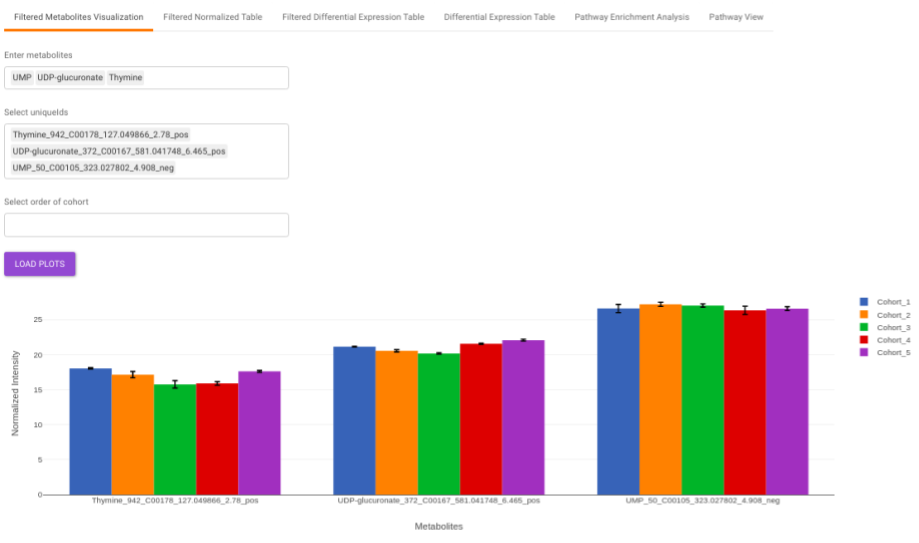
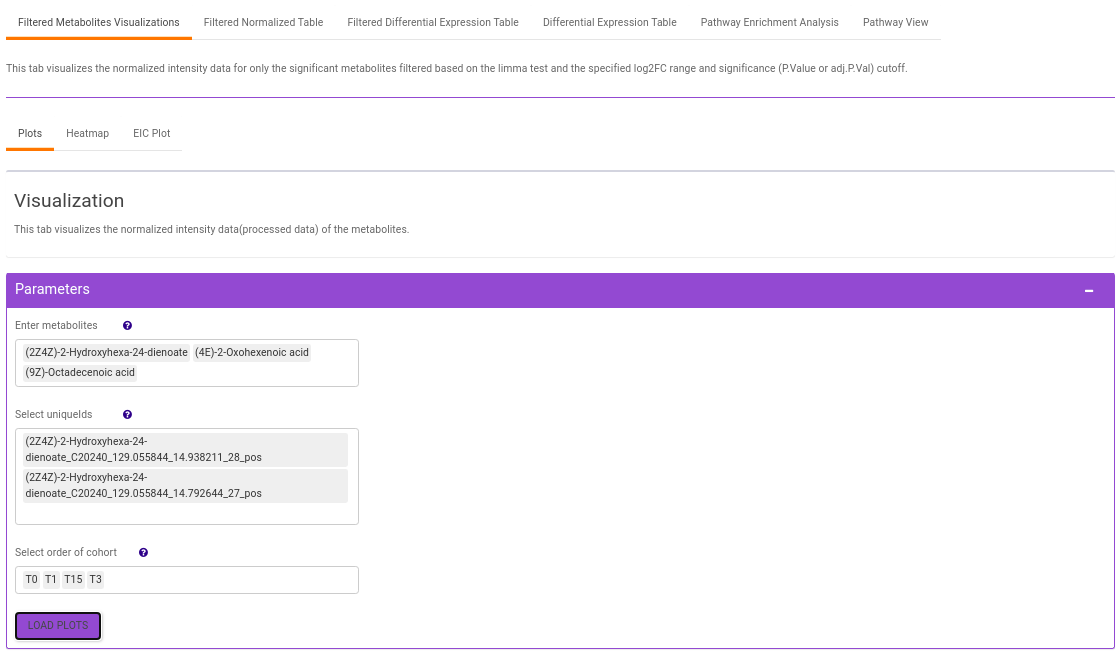
updated for feature additions

diff --git a/docs/Apps/Metabolomic Data/Untargeted Pipeline.md b/docs/Apps/Metabolomic Data/Untargeted Pipeline.md
@@ -19,7 +19,7 @@ Untargeted Pipeline can take a csv file are well as a emdb file as input.
 
 **Emdb File**
 
-The emdb file used here is a RSQLite database file generated when an El-MAVEN session is saved. It has all the unannotated features along with other features of the peaks. 
+The emdb file used here is a RSQLite database file generated when an El-MAVEN session is saved. It has all the unannotated features along with other features of the peaks. An emdb file can have multiple feature tables, and the user can select the feature table to use in the downsteam pipeline thhrough the dropdown.
 
 **Intensity File**
 
@@ -336,6 +336,10 @@ This allows you to understand the clustering pattern between biologically groupe
 
 ##Statistical Analysis
 
+This tab allows you to perform various statistical analysis test on the data, namely limma test and anova test to identify significant and important features from the data.
+
+**Limma Test**
+
 This interface allows you to perform differential expression limma analysis with the aim to identify metabolites whose expression differs between any specified cohort conditions. The 'limma' R package is used to identify the differentially expressed metabolites. This method creates a log<sub>2</sub> fold change ratio between the two experimental conditions and an 'adjusted' *p*-value that rates the significance of the difference.
 
 ![Statistical Analysis interface](../../img/UntargetedPipeline/utp_app_stats_analysis_page.png) <center>**Figure 46.** Statistical Analysis interface</center>
@@ -360,66 +364,108 @@ Once the parameters are specified, click on the *Update* button to plot the volc
 
 ![Volcano plot](../../img/UntargetedPipeline/utp_app_volcano_plot.png) <center>**Figure 48.** Volcano plot</center>
 
-*Filtered Metabolites Visualization* provides the visualization of cohort-based distribution of the metabolites that are significant based on the parameters specified.
+*Filtered Metabolites Visualization* provides the option to visualize the cohort-based distribution of the features/metabolites that are significant based on the parameters specified through bar plots and boxplots and also look at the EIC plot of specific features to update categorization of the feateure by the peakML algorithm.
 
 ![Filtered Metabolites Visualization](../../img/UntargetedPipeline/utp_app_stats_analysis_filtered_metabolites_visualization.png) <center>**Figure 49.** Filtered Metabolites Visualization</center>
 
+*   Plots: This tab allows the user to visualize the cohort-based distribution of the features/metabolites through barplots and boxplots.
+![Filtered Metabolites Plots](../../img/UntargetedPipeline/utp_app_stats_analysis_filtered_metabolites_barplot_boxplot_visualization.png) <center>**Figure 50.** Barplot </center>
+*   Heatmap: This tab allows you to produce a heatmap of the filtered features/metabolite data, so that you can observe the level of expression in a visual form. Click on *Load Heatmap* button to generate the heatmap..
+![Heatmap of the significant features/metabolites data](../../img/UntargetedPipeline/utp_app_filtered_heatmap.png) <center>**Figure 51.** Heatmap</center>
+*   EIC Plot: This tab allows you to visualize the eic of specific features so that the user can relabel the classification of the feature done by the peakML algorithm. You can also download the updated emdb file after reaclassification from the Downloads tab.
+![EIC plot of significant features/metabolites](../../img/UntargetedPipeline/utp_app_filtered_eic_plot.png) <center>**Figure 52.** EIC Plot</center>
+![Relabel features/metabolites](../../img/UntargetedPipeline/utp_app_filtered_realabel.png) <center>**Figure 53.** EIC Plot</center>
+
 *Filtered Normalized Table* contains the normalized data of the metabolites that are significant based on the parameters specified.
 
-![Filtered Normalized Table](../../img/UntargetedPipeline/utp_app_stats_analysis_filtered_normalised_table.png) <center>**Figure 50.** Filtered Normalized Table</center>
+![Filtered Normalized Table](../../img/UntargetedPipeline/utp_app_stats_analysis_filtered_normalised_table.png) <center>**Figure 54.** Filtered Normalized Table</center>
 
 *Filtered Differential Expression Table* contains only the metabolites that have significant *p*-values as specified.
 
-![Filtered Differential Expression Table](../../img/UntargetedPipeline/utp_app_stats_analysis_filtered_diff_exp_table.png) <center>**Figure 51.** Filtered Differential Expression Table</center>
+![Filtered Differential Expression Table](../../img/UntargetedPipeline/utp_app_stats_analysis_filtered_diff_exp_table.png) <center>**Figure 55.** Filtered Differential Expression Table</center>
 
 *Differential Expression Table* contains all the differentially expressed metabolites without any filtering.
 
-![Differential Expression Table](../../img/UntargetedPipeline/utp_app_stats_analysis_diff_exp_table.png) <center>**Figure 52.** Differential Expression Table</center>
+![Differential Expression Table](../../img/UntargetedPipeline/utp_app_stats_analysis_diff_exp_table.png) <center>**Figure 56.** Differential Expression Table</center>
 
 *Pathway Enrichment Analysis* performs the pathway enrichment analysis for the significant metabolites based on the parameters specified for the particular cohort comparison. Click on the *Perform Pathway Analysis* button.
 As a result, you get Metabolite Set Enrichment Analysis and Pathway Topology Analysis plots that can be downloaded under the *Plot* panel. You can also obtain the tablular representation of the plots by selecting onto the *Table* panel.
 
-![Metabolite Set Enrichment Analysis Plot](../../img/UntargetedPipeline/utp_app_stats_analysis_msea_plot.png) <center>**Figure 53.** Metabolite Set Enrichment Analysis Plot</center>
+![Metabolite Set Enrichment Analysis Plot](../../img/UntargetedPipeline/utp_app_stats_analysis_msea_plot.png) <center>**Figure 57.** Metabolite Set Enrichment Analysis Plot</center>
 
-![Pathway Topology Analysis Plot](../../img/UntargetedPipeline/utp_app_stats_analysis_pathway_topology_plot.png) <center>**Figure 54.** Pathway Topology Analysis Plot</center>
+![Pathway Topology Analysis Plot](../../img/UntargetedPipeline/utp_app_stats_analysis_pathway_topology_plot.png) <center>**Figure 58.** Pathway Topology Analysis Plot</center>
 
-![Metabolite Set Enrichment Analysis Table](../../img/UntargetedPipeline/utp_app_stats_analysis_msea_table.png) <center>**Figure 55.** Metabolite Set Enrichment Analysis Table</center>
+![Metabolite Set Enrichment Analysis Table](../../img/UntargetedPipeline/utp_app_stats_analysis_msea_table.png) <center>**Figure 59.** Metabolite Set Enrichment Analysis Table</center>
 
-![Pathway Topology Analysis Table](../../img/UntargetedPipeline/utp_app_stats_analysis_topology_table.png) <center>**Figure 56.** Pathway Topology Analysis Table</center>
+![Pathway Topology Analysis Table](../../img/UntargetedPipeline/utp_app_stats_analysis_topology_table.png) <center>**Figure 60.** Pathway Topology Analysis Table</center>
 
 *Pathway View* plots the pathway view of the metabolites that show up in the Metabolite Set Enrichment Analysis. It maps and renders the metabolite hits on relevant pathway graphs. This enables you to visualize the significant metabolites on pathway graphs of the respective metabolites they belong to. You can select your metabolite of interest from the drop-down and click on *Plot*. This will plot the pathway view of the metabolism selected. You can also download the plot as a .png file by clicking onto the *Download Pathview Plot* button.
 
-![Pathway View Plot](../../img/UntargetedPipeline/utp_app_stats_analysis_pathview_plot.png) <center>**Figure 57.** Pathway View Plot</center>
+![Pathway View Plot](../../img/UntargetedPipeline/utp_app_stats_analysis_pathview_plot.png) <center>**Figure 61.** Pathway View Plot</center>
+
+**ANOVA Test**
+This interface allows you to compare the means of two or more groups using F-statistic under the assumption that samples population are normally distributed. One- way ANOVA allows determining whether one given factor has significant effect in mean values of any groups in the data.
+
+![ANOVA Test interface](../../img/UntargetedPipeline/utp_app_anova_page.png) <center>**Figure 62.** Statistical Analysis interface</center>
+
+The following parameters are available for selection:
+
+*   Select *Cohorts*: Select the cohorts you want to consider while performing the one way anova test.
+*   p-val: By default, the value is 0.05 but can be changed if required.
+*   F value: Specify the cut-off for f value with the help of the slider.
+
+Once the parameters are specified, click on the RUN ANOVA button to plot the barplots and boxplots. Based on the parameters specified, the generated tables are filtered.
+
+*Filtered Metabolites Visualization* provides the option to visualize the cohort-based distribution of the features/metabolites that are significant based on the parameters specified through bar plots and boxplots.
+
+![Filtered Metabolites Visualization](../../img/UntargetedPipeline/utp_app_stats_analysis_anova_filtered_metabolites_visualization.png) <center>**Figure 63.** Filtered Metabolites Visualization</center>
+
+*   Plots: This tab allows the user to visualize the cohort-based distribution of the features/metabolites through barplots and boxplots.
+![Filtered Metabolites Plots](../../img/UntargetedPipeline/utp_app_stats_analysis_filtered_metabolites_barplot_boxplot_visualization.png) <center>**Figure 64.** Filtering Interface</center>
+*   Heatmap: This tab allows you to produce a heatmap of the filtered features/metabolite data, so that you can observe the level of expression in a visual form. Click on *Load Heatmap* button to generate the heatmap..
+![Heatmap of the significant features/metabolites data](../../img/UntargetedPipeline/utp_app_filtered_heatmap.png) <center>**Figure 65.** Heatmap</center>
+
+*Filtered Normalized Table* contains the normalized data of the metabolites that are significant based on the parameters specified.
+
+![Filtered Normalized Table](../../img/UntargetedPipeline/utp_app_stats_analysis_anova_filtered_normalised_table.png) <center>**Figure 66.** Filtered Normalized Table</center>
+
+*Filtered Anova Table* contains only the metabolites that have significant *p*-values and F statisitic value as specified.
+
+![Filtered Anova Table](../../img/UntargetedPipeline/utp_app_stats_analysis_anova_filtered_diff_exp_table.png) <center>**Figure 67.** Filtered Anova Table</center>
+
+*Anova Table* contains all the metabolites without any filtering.
+
+![Anova Table](../../img/UntargetedPipeline/utp_app_stats_analysis_anova_diff_exp_table.png) <center>**Figure 68.** Anova Table</center>
 
 ##Visualization
 
 This interface allows you to visualize the cohort-based distribution of a specific metabolite or a group of metabolites on the basis on its normalized intensity values.
 
-![Visualization tab options](../../img/UntargetedPipeline/utp_app_viz_tab_options.png) <center>**Figure 58.** Visualization tab options</center>
+![Visualization tab options](../../img/UntargetedPipeline/utp_app_viz_tab_options.png) <center>**Figure 69.** Visualization tab options</center>
 
 *   *Enter metabolite:* Select the metabolite(s) of interest from the drop down option.
 *   *Select uniqueIds:* You can specifically select the metabolic feature of interest for the metabolite from the drop down option.
 *   *Select order of cohort:* You can also specify the particular order of the cohort to visualize the bar plot.
 
-Once the parameters are selected, click on *Load Plots* to plot the bar plot for the metabolite.
+Once the parameters are selected, click on *Load Plots* to plot the bar plot and boxplot for the metabolite.
 
-![Cohort-wise bar plot with the normalized intensity of selected metabolite](../../img/UntargetedPipeline/utp_app_barplot_viz.png) <center>**Figure 59.** Cohort-wise bar plot with the normalized intensity of selected metabolite</center>
+![Cohort-wise bar plot with the normalized intensity of selected metabolite](../../img/UntargetedPipeline/utp_app_boxplot_viz.png) <center>**Figure 70.** Cohort-wise bar plot with the normalized intensity of selected metabolite</center>
 
 ##Heatmap
 
 This tab allows you to produce a heatmap of the processed data, so that you can observe the level of expression in a visual form. Click on *Load Heatmap* button to generate the heatmap.
 
-![Heatmap of the processed data](../../img/UntargetedPipeline/utp_app_heatmap.png) <center>**Figure 60.** Heatmap</center>
+![Heatmap of the processed data](../../img/UntargetedPipeline/utp_app_heatmap.png) <center>**Figure 71.** Heatmap</center>
 
 ##IntOmix Input
 
 This tab allows you to generate the input for [IntOmix](https://docs.elucidata.io/Apps/Multi-omic%20Data/IntOmix.html) where you can visualize the significantly altered metabolic network modules between any two experimental conditions.
 
-![IntOmix Input Tab options](../../img/UntargetedPipeline/utp_app_intomix_input_tab.png) <center>**Figure 61.** IntOmix Input Tab options</center>
+![IntOmix Input Tab options](../../img/UntargetedPipeline/utp_app_intomix_input_tab.png) <center>**Figure 72.** IntOmix Input Tab options</center>
 
 Specify two or more cohorts from the *Select cohorts* drop down option for which you want to generate the IntOmix input. Once the required cohorts are selected, click on *Generate* to generate the IntOmix input.
 
-![IntOmix Table for the cohort conditions specified](../../img/UntargetedPipeline/utp_app_intomix_table.png) <center>**Figure 62.** IntOmix Table for the cohort conditions specified</center>
+![IntOmix Table for the cohort conditions specified](../../img/UntargetedPipeline/utp_app_intomix_table.png) <center>**Figure 73.** IntOmix Table for the cohort conditions specified</center>
 
 **NOTE:**
 
@@ -431,37 +477,37 @@ This tab allows you to perform comparative analysis between a set of cohorts in 
 
 * *Comparison Parameters* tab allows you to select the cohorts of interest for which you would want to get the set intersections. You can select the cohorts from the *Select cohorts* drop-down and click on *Run* button. Further, you can also specify the *p*-value cut-off and log<sub>2</sub>FC threshold.
 
-![Comparison Parameters Tab options](../../img/UntargetedPipeline/utp_app_comparative_analysis_uploads_tab.png) <center>**Figure 63.** Comparison Parameters Tab options</center>
+![Comparison Parameters Tab options](../../img/UntargetedPipeline/utp_app_comparative_analysis_uploads_tab.png) <center>**Figure 74.** Comparison Parameters Tab options</center>
 
 You will get a table as a result of the parameters specified which will have the significant metabolites for the different cohort comparisons along with their corresponding *p*-values and log<sub>2</sub>FC values. You can also download this table as a .CSV file.
 
-![Comparison Table](../../img/UntargetedPipeline/utp_app_comparative_analysis_comparison_table.png) <center>**Figure 64.** Comparison Table</center>
+![Comparison Table](../../img/UntargetedPipeline/utp_app_comparative_analysis_comparison_table.png) <center>**Figure 75.** Comparison Table</center>
 
 * *UpSet Plot* tab allows you to visualize the set intersections for the cohort comparisons selected where every comparison consists of the significant metabolites associated with the same. You can select the cohort comparisons of interest from the *Select Cohort Comparison* drop-down which represents all the possible comparisons for the cohorts specified in the previous tab. Click on *Plot* to get the UpSet plot for the specified comparisons.
 
-![UpSet Plot options](../../img/UntargetedPipeline/utp_app_comparative_analysis_upset_plot_options.png) <center>**Figure 65.** UpSet Plot options</center>
+![UpSet Plot options](../../img/UntargetedPipeline/utp_app_comparative_analysis_upset_plot_options.png) <center>**Figure 76.** UpSet Plot options</center>
 
-![UpSet Plot](../../img/UntargetedPipeline/utp_app_comparative_analysis_upset_plot.png) <center>**Figure 66.** UpSet Plot</center>
+![UpSet Plot](../../img/UntargetedPipeline/utp_app_comparative_analysis_upset_plot.png) <center>**Figure 77.** UpSet Plot</center>
 
 Along with the plot, you can also get all the constituent metabolites for the respective comparisons in a tabular format that can be downloaded as a .CSV file.
 
-![UpSet Plot table](../../img/UntargetedPipeline/utp_app_comparative_analysis_upset_table.png) <center>**Figure 67.** UpSet Plot Table</center>
+![UpSet Plot table](../../img/UntargetedPipeline/utp_app_comparative_analysis_upset_table.png) <center>**Figure 78.** UpSet Plot Table</center>
 
 * *Pathway Enrichment Analysis* tab allows you to perform the pathway enrichment analysis for the significant metabolites that show up based on the parameters specified in the *Comparison Parameters* tab for the particular set of cohort comparison. Click on the *Perform Pathway Analysis* button. As a result, you get Metabolite Set Enrichment Analysis and Pathway Topology Analysis plots that can be downloaded under the *Plot* panel. You can also obtain the tablular representation of the plots by selecting onto the *Table* panel.
 
-![Metabolite Set Enrichment Analysis Plot](../../img/UntargetedPipeline/utp_app_comparative_analysis_msea_plot.png) <center>**Figure 68.** Metabolite Set Enrichment Analysis Plot</center>
+![Metabolite Set Enrichment Analysis Plot](../../img/UntargetedPipeline/utp_app_comparative_analysis_msea_plot.png) <center>**Figure 79.** Metabolite Set Enrichment Analysis Plot</center>
 
-![Pathway Topology Analysis Plot](../../img/UntargetedPipeline/utp_app_comparative_analysis_pathway_topology_plot.png) <center>**Figure 69.** Pathway Topology Analysis Plot</center>
+![Pathway Topology Analysis Plot](../../img/UntargetedPipeline/utp_app_comparative_analysis_pathway_topology_plot.png) <center>**Figure 80.** Pathway Topology Analysis Plot</center>
 
-![Metabolite Set Enrichment Analysis Table](../../img/UntargetedPipeline/utp_app_comparative_analysis_msea_table.png) <center>**Figure 70.** Metabolite Set Enrichment Analysis Table</center>
+![Metabolite Set Enrichment Analysis Table](../../img/UntargetedPipeline/utp_app_comparative_analysis_msea_table.png) <center>**Figure 81.** Metabolite Set Enrichment Analysis Table</center>
 
-![Pathway Topology Analysis Table](../../img/UntargetedPipeline/utp_app_comparative_analysis_topology_table.png) <center>**Figure 71.** Pathway Topology Analysis Table</center>
+![Pathway Topology Analysis Table](../../img/UntargetedPipeline/utp_app_comparative_analysis_topology_table.png) <center>**Figure 82.** Pathway Topology Analysis Table</center>
 
 *Pathway View* plots the pathway view of the metabolites that show up in the Metabolite Set Enrichment Analysis. It maps and renders the metabolite hits on relevant pathway graphs. This enables you to visualize the significant metabolites on pathway graphs of the respective metabolisms they belong to. You can select your metabolite of interest from the drop-down and click on *Plot*. This will plot the pathway view of the metabolite selected. You can also download the plot as a .png file by clicking onto the *Download Pathview Plot* button.
 
-![Pathway View options](../../img/UntargetedPipeline/utp_app_comparative_analysis_pathway_view_options.png) <center>**Figure 72.** Pathway View options</center>
+![Pathway View options](../../img/UntargetedPipeline/utp_app_comparative_analysis_pathway_view_options.png) <center>**Figure 83.** Pathway View options</center>
 
-![Pathway View Plot](../../img/UntargetedPipeline/utp_app_comparative_analysis_pathway_view_plot.png) <center>**Figure 73.** Pathway View Plot</center>
+![Pathway View Plot](../../img/UntargetedPipeline/utp_app_comparative_analysis_pathway_view_plot.png) <center>**Figure 84.** Pathway View Plot</center>
 
 #References
 
